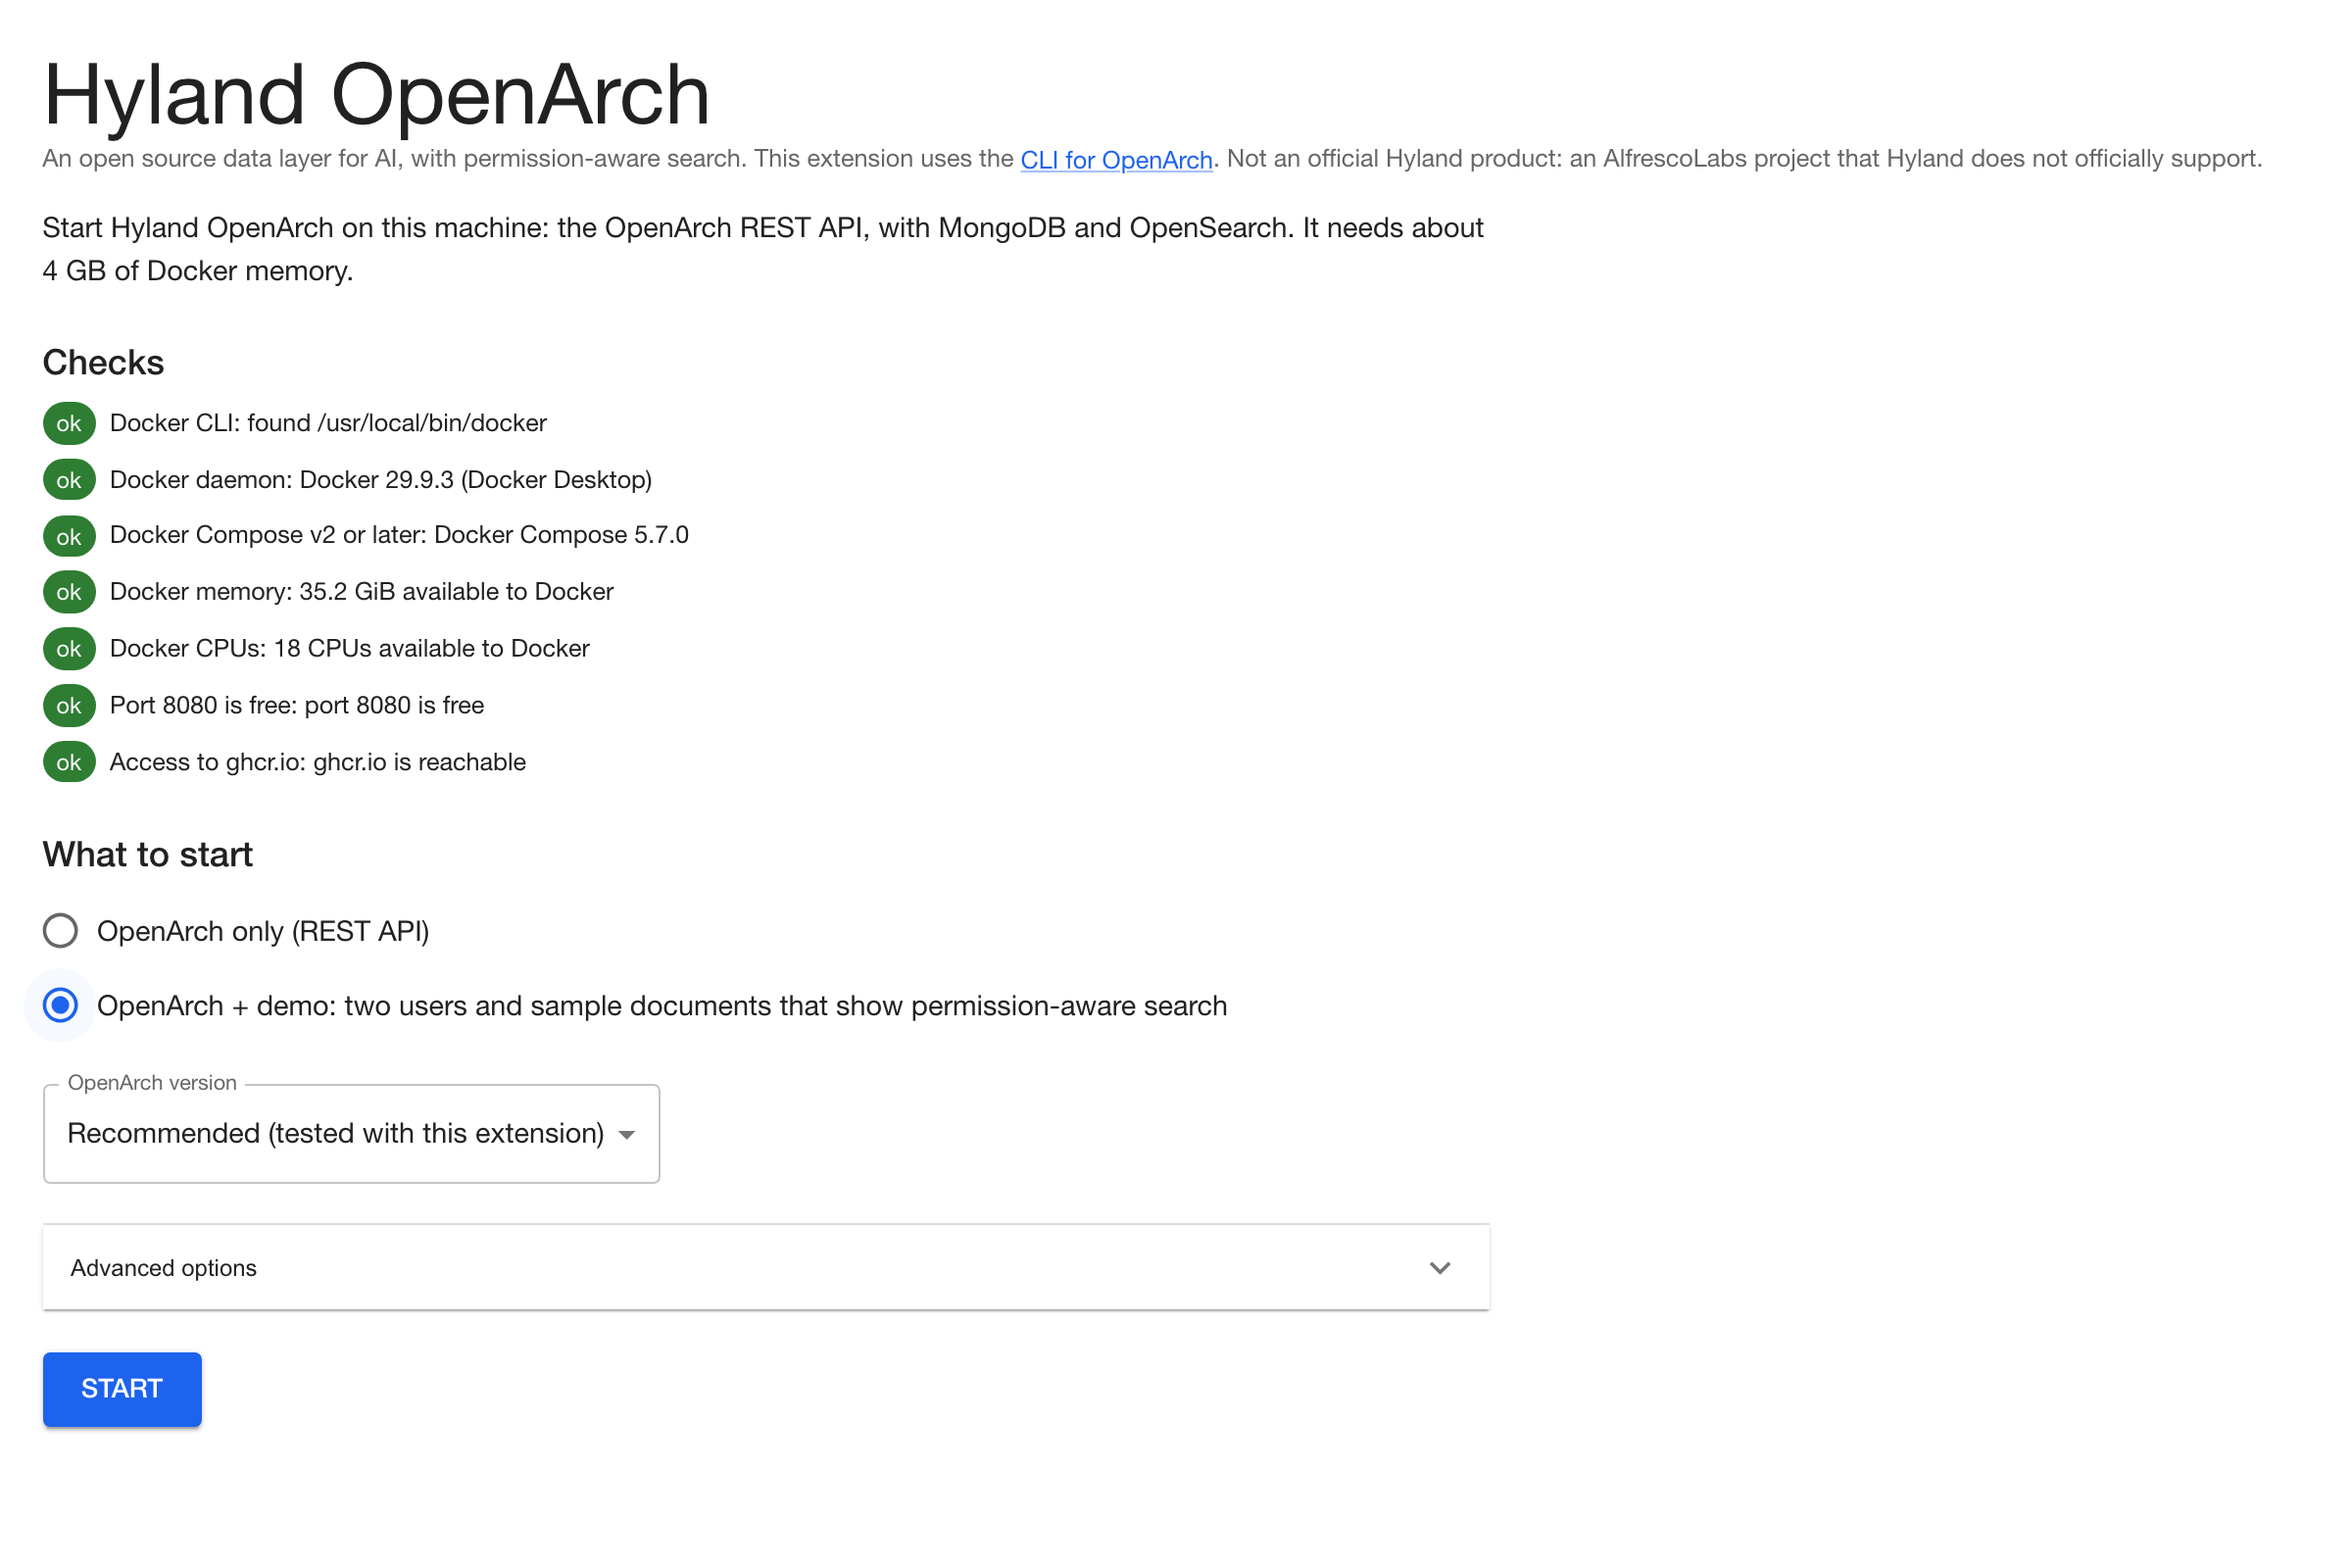
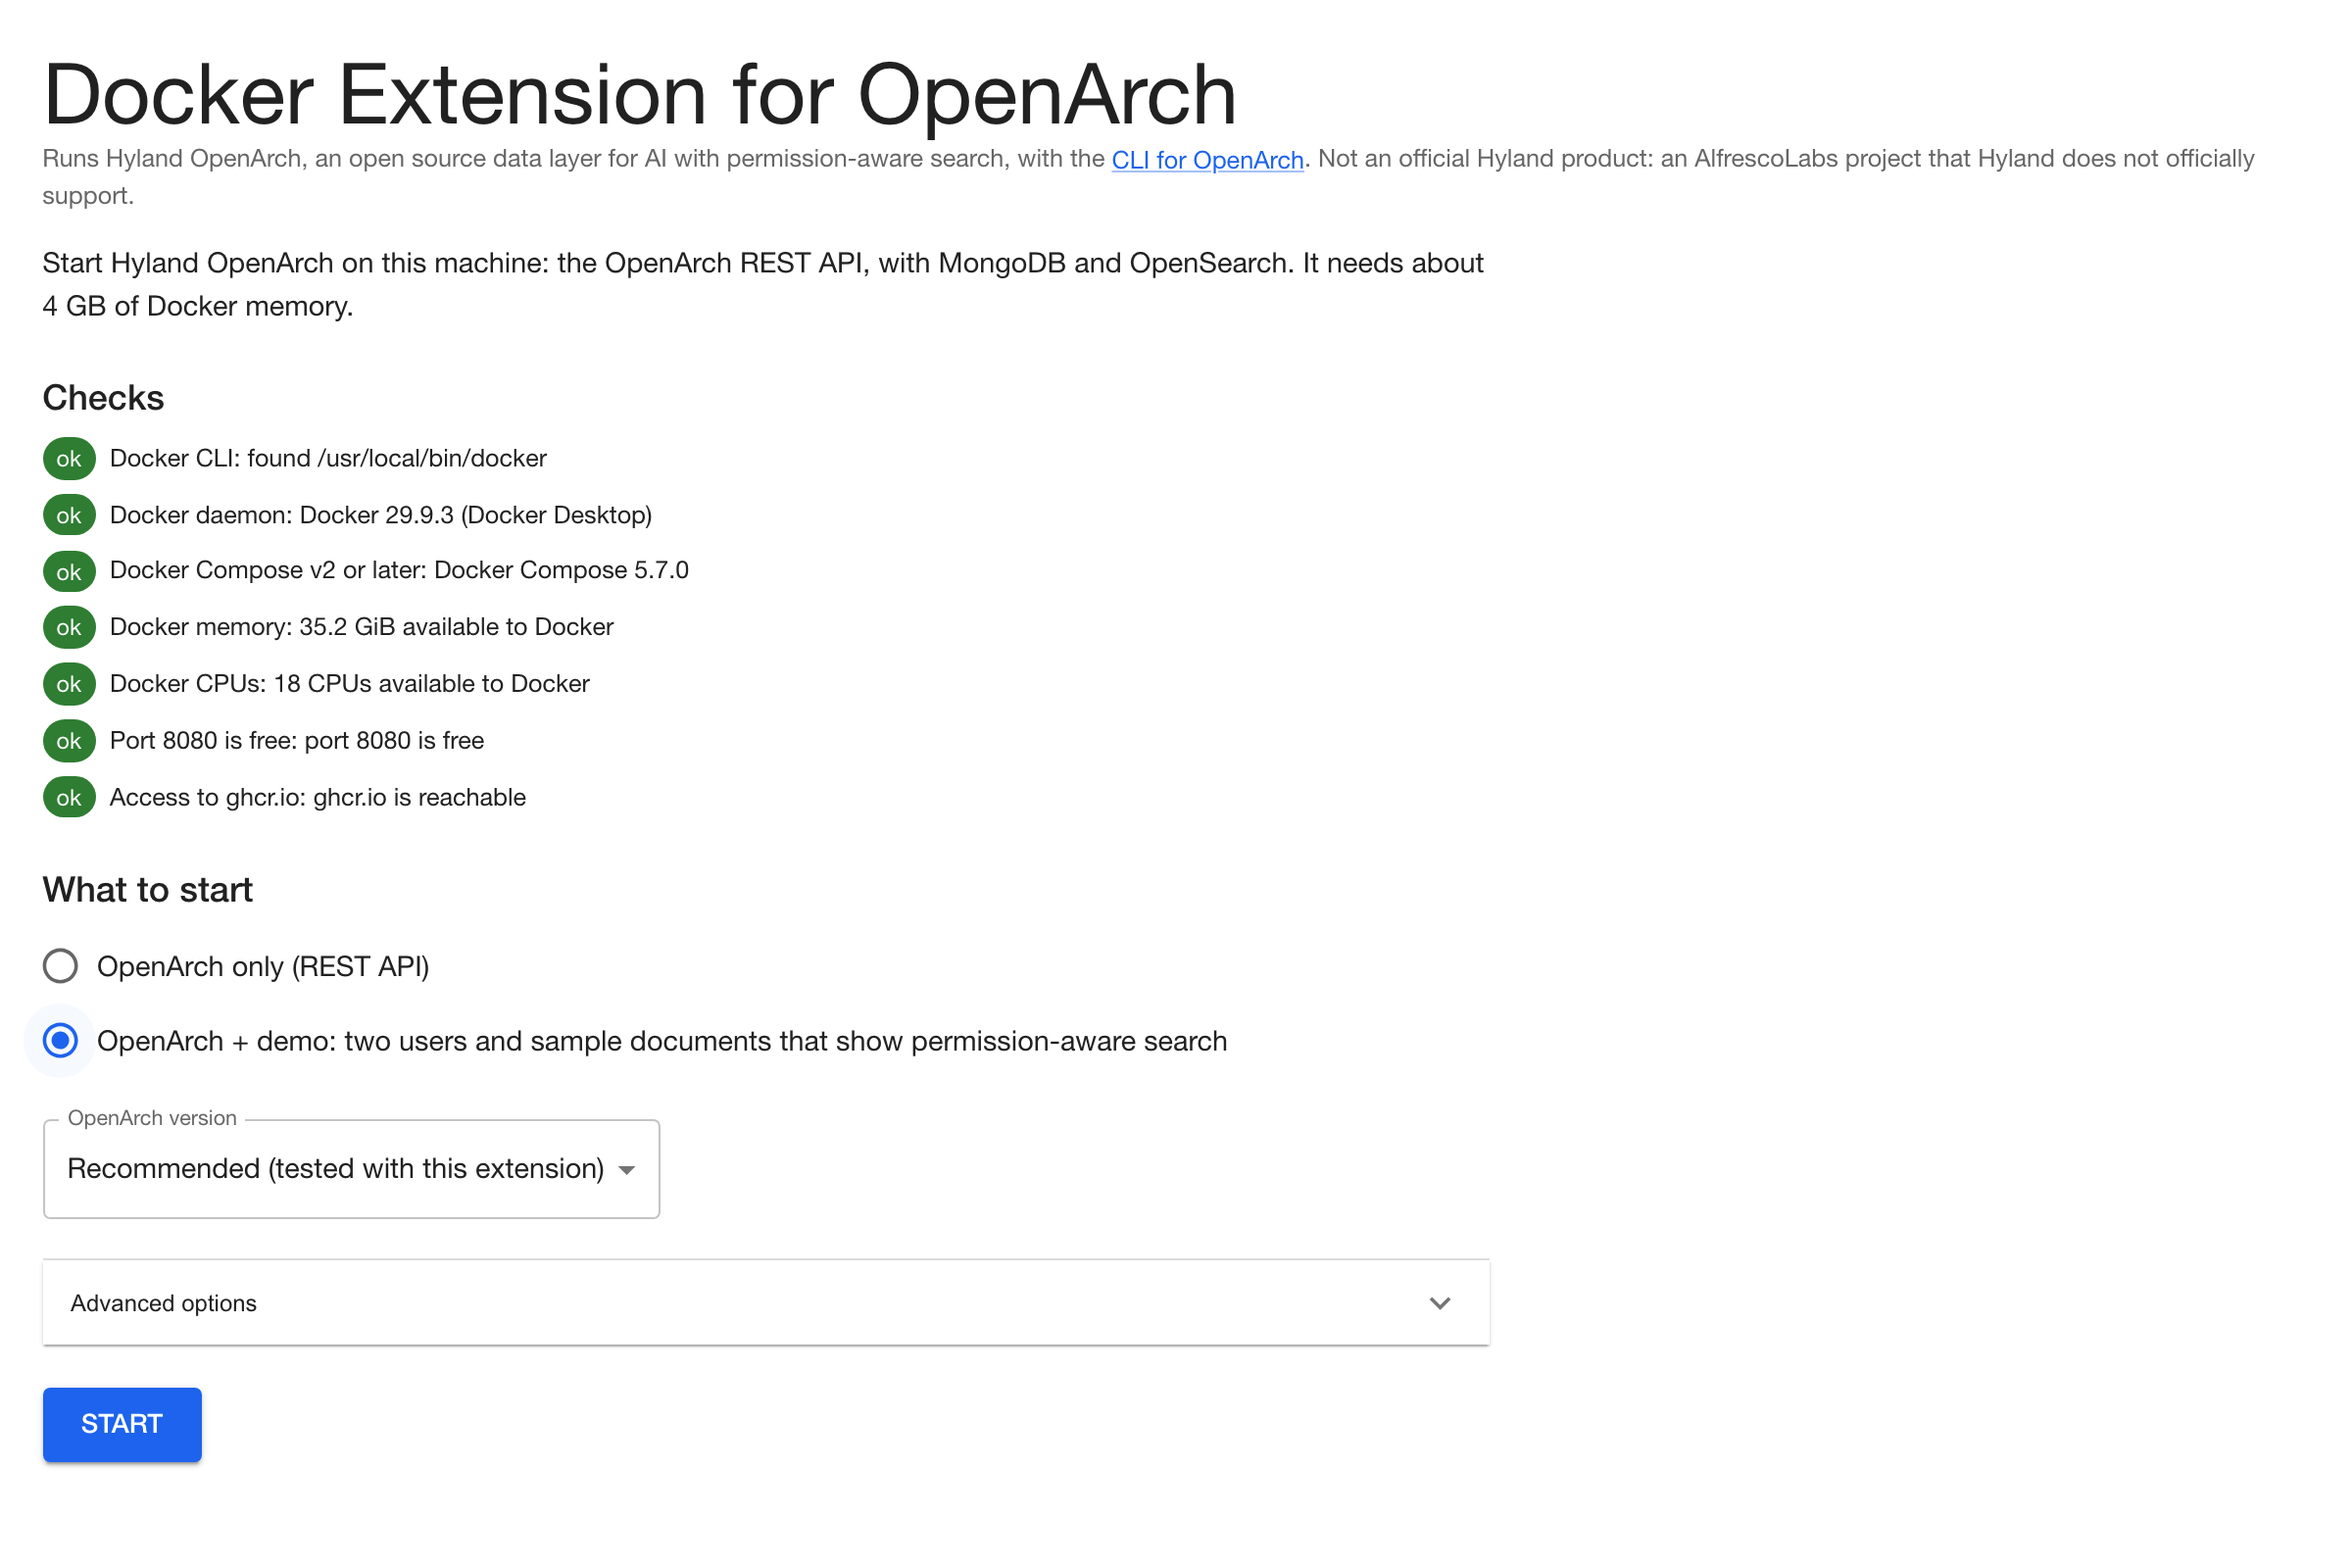
Name the extension Docker Extension for OpenArch

Changed region(s): [[0.0, 0.0312, 0.9688, 0.9375]]

diff --git a/ui/src/App.tsx b/ui/src/App.tsx
@@ -74,9 +74,9 @@ export function App() {
   return (
     <Stack spacing={2} sx={{ p: 3 }}>
       <Box>
-        <Typography variant="h3">Hyland OpenArch</Typography>
+        <Typography variant="h3">Docker Extension for OpenArch</Typography>
         <Typography variant="body2" color="text.secondary">
-          An open source data layer for AI, with permission-aware search. This extension uses the{' '}
+          Runs Hyland OpenArch, an open source data layer for AI with permission-aware search, with the{' '}
           <Link component="button" variant="body2" onClick={() => dd.host.openExternal('https://github.com/AlfrescoLabs/openarch-cli')}>
             CLI for OpenArch
           </Link>

diff --git a/ui/index.html b/ui/index.html
@@ -2,7 +2,7 @@
 <html lang="en">
   <head>
     <meta charset="UTF-8" />
-    <title>Hyland OpenArch</title>
+    <title>Docker Extension for OpenArch</title>
   </head>
   <body>
     <div id="root"></div>

diff --git a/README.md b/README.md
@@ -1,7 +1,7 @@
-# Docker Desktop extension for Hyland OpenArch
+# Docker Extension for OpenArch
 
 > [!IMPORTANT]
-> **Not an official Hyland product.** The Docker Desktop extension for Hyland OpenArch is not Hyland OpenArch. It is in the [AlfrescoLabs](https://github.com/AlfrescoLabs) organization on GitHub because Hyland does not officially support it. Hyland OpenArch itself is at [github.com/hyland/OpenArch](https://github.com/hyland/OpenArch).
+> **Not an official Hyland product.** The Docker Extension for OpenArch is not Hyland OpenArch. It is in the [AlfrescoLabs](https://github.com/AlfrescoLabs) organization on GitHub because Hyland does not officially support it. Hyland OpenArch itself is at [github.com/hyland/OpenArch](https://github.com/hyland/OpenArch).
 
 Start [Hyland OpenArch](https://github.com/Hyland/OpenArch) on your machine with one click, and see what it does.
 
